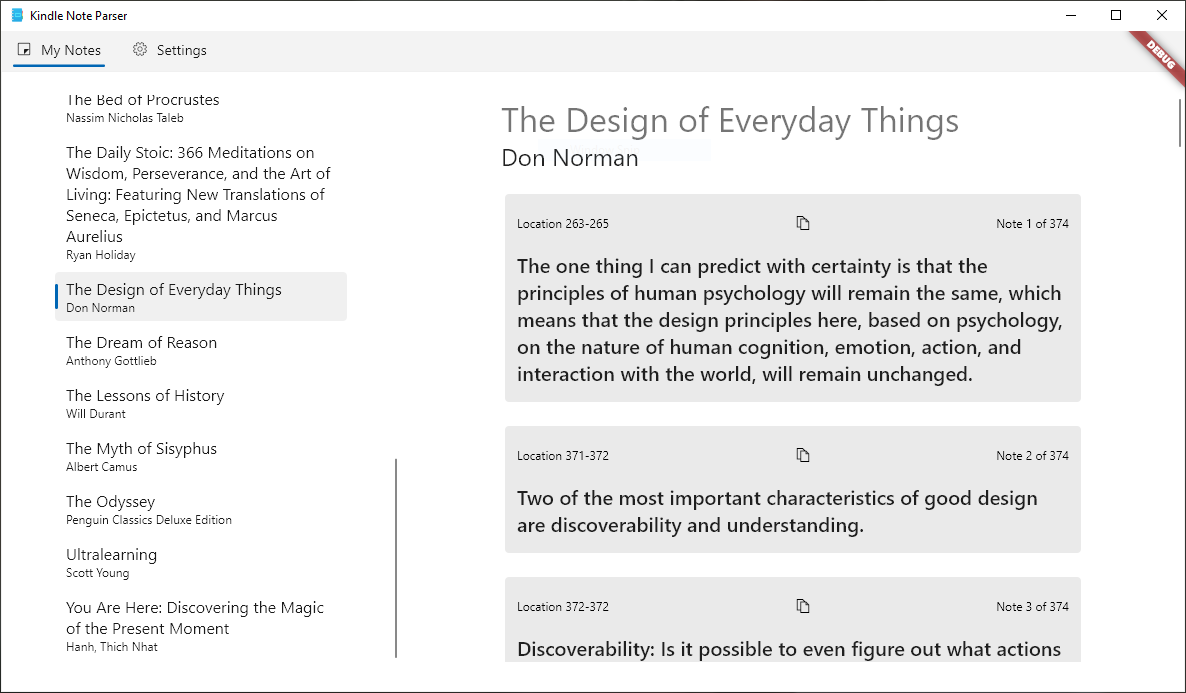
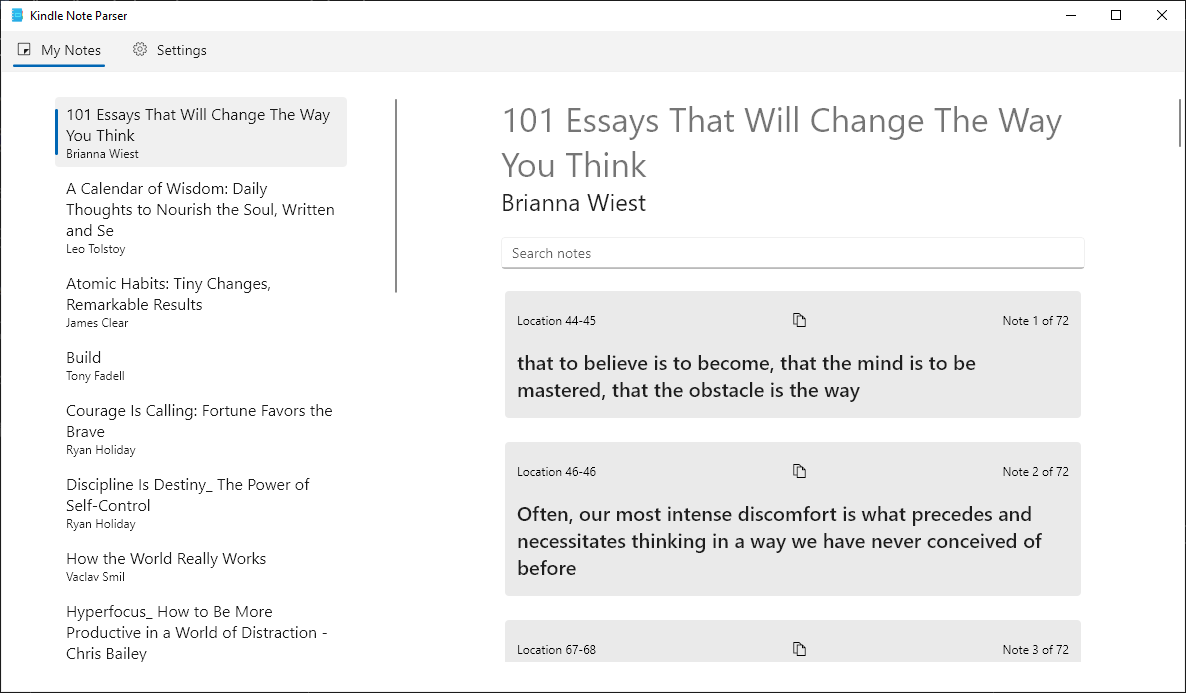
Notes search box
Settings error pop up and readme

diff --git a/lib/settings/bloc/settings_state.dart b/lib/settings/bloc/settings_state.dart
@@ -6,23 +6,33 @@ class SettingsState extends Equatable {
       this.selectedDrive = "",
       this.synced = false,
       this.exported = false,
+      this.error = "",
       this.booksList = const [],
       this.selectedBooks = const []});
 
   final List<String> kindleDrives;
   final String selectedDrive;
+  final String error;
   final bool synced;
   final bool exported;
   final List<String> booksList;
   final List<String> selectedBooks;
 
   @override
-  List<Object> get props =>
-      [kindleDrives, selectedDrive, synced, exported, booksList, selectedBooks];
+  List<Object> get props => [
+        kindleDrives,
+        error,
+        selectedDrive,
+        synced,
+        exported,
+        booksList,
+        selectedBooks
+      ];
 
   SettingsState copyWith(
       {List<String>? kindleDrives,
       String? selectedDrive,
+      String? error,
       bool? synced,
       bool? exported,
       List<String>? booksList,
@@ -31,6 +41,7 @@ class SettingsState extends Equatable {
         kindleDrives: kindleDrives ?? this.kindleDrives,
         selectedDrive: selectedDrive ?? this.selectedDrive,
         synced: synced ?? this.synced,
+        error: error ?? this.error,
         exported: exported ?? this.exported,
         booksList: booksList ?? this.booksList,
         selectedBooks: selectedBooks ?? this.selectedBooks);

diff --git a/lib/notes/notes.dart b/lib/notes/notes.dart
@@ -70,11 +70,22 @@ class Notes extends StatelessWidget {
                             margin: const EdgeInsets.only(bottom: 20),
                             child: Text(
                                 state.selectedBook.isNotEmpty
-                                    ? state.selectedNotes.first.bookAuthor
+                                    ? state.books[state.selectedBook]!.first
+                                        .bookAuthor
                                     : "",
                                 style:
                                     Theme.of(context).textTheme.headlineSmall),
                           ),
+                          Container(
+                              margin: const EdgeInsets.only(bottom: 20),
+                              child: TextBox(
+                                placeholder: "Search notes",
+                                onChanged: (value) {
+                                  context
+                                      .read<NotesBloc>()
+                                      .add(NotesSearch(search: value));
+                                },
+                              )),
                         ] +
                         state.selectedNotes.map((note) {
                           return Container(

diff --git a/lib/notes/bloc/notes_bloc.dart b/lib/notes/bloc/notes_bloc.dart
@@ -29,5 +29,22 @@ class NotesBloc extends Bloc<NotesEvent, NotesState> {
       emit(state.copyWith(
           selectedBook: event.bookTitle, selectedNotes: event.notes));
     });
+
+    on<NotesSearch>((event, emit) {
+      List<Note> newNotes = [];
+
+      if (event.search.isEmpty) {
+        emit(state.copyWith(selectedNotes: state.books[state.selectedBook]!));
+        return;
+      }
+
+      for (Note note in state.selectedNotes) {
+        if (note.text.toLowerCase().contains(event.search.toLowerCase())) {
+          newNotes.add(note);
+        }
+      }
+
+      emit(state.copyWith(selectedNotes: newNotes));
+    });
   }
 }

diff --git a/lib/settings/settings.dart b/lib/settings/settings.dart
@@ -30,6 +30,17 @@ class Settings extends StatelessWidget {
   Widget build(BuildContext context) {
     return BlocListener<SettingsBloc, SettingsState>(
       listener: (context, state) {
+        if (state.error.isNotEmpty) {
+          showSnackbar(
+              context,
+              InfoBar(
+                title: Text(state.error),
+                severity: InfoBarSeverity.error,
+              ), onDismiss: () {
+            context.read<SettingsBloc>().add(SettingsClearError());
+          });
+        }
+
         if (state.synced) {
           showSnackbar(
               context,

diff --git a/lib/settings/bloc/settings_bloc.dart b/lib/settings/bloc/settings_bloc.dart
@@ -69,6 +69,9 @@ class SettingsBloc extends Bloc<SettingsEvent, SettingsState> {
       try {
         directory = await _kindleRepository.getDirectory();
       } catch (error) {
+        emit(state.copyWith(
+          error: "There was an error getting the directory",
+        ));
         return;
       }
 
@@ -83,6 +86,10 @@ class SettingsBloc extends Bloc<SettingsEvent, SettingsState> {
       }
 
       emit(state.copyWith(exported: true, selectedBooks: []));
+    });
+
+    on<SettingsClearError>((event, emit) {
+      emit(state.copyWith(error: ""));
     });
   }
 }

diff --git a/lib/settings/bloc/settings_event.dart b/lib/settings/bloc/settings_event.dart
@@ -21,6 +21,8 @@ class SettingsSyncSuccessToggle extends SettingsEvent {}
 
 class SettingsExportSuccessToggle extends SettingsEvent {}
 
+class SettingsClearError extends SettingsEvent {}
+
 class SettingsToggleBook extends SettingsEvent {
   const SettingsToggleBook({required this.book});
 

diff --git a/lib/notes/bloc/notes_event.dart b/lib/notes/bloc/notes_event.dart
@@ -15,3 +15,9 @@ class NotesBookSelected extends NotesEvent {
   final String bookTitle;
   final List<Note> notes;
 }
+
+class NotesSearch extends NotesEvent {
+  const NotesSearch({required this.search});
+
+  final String search;
+}

diff --git a/README.md b/README.md
@@ -1,6 +1,18 @@
 # Flutter Kindle Note Parser
 
-Flutter windows app for parsing and browsing kindle highlights from uploaded documents. The Kindle Note Parser reads My Clippings.txt
+<a title="Made with Fluent Design" href="https://github.com/bdlukaa/fluent_ui">
+  <img
+    src="https://img.shields.io/badge/fluent-design-blue?style=flat-square&color=gray&labelColor=0078D7"
+  >
+</a>
+
+---
+
+- Kindle Note Parser is a flutter windows app for parsing and browsing kindle highlights 
+- Kindle Note Parser supports exporting your highlights to pdf files
+- It parses notes by reading My Clippings.txt from your kindle documents
+
+---
 
 ![List of notes in windows app](screenshot1.PNG)
 
